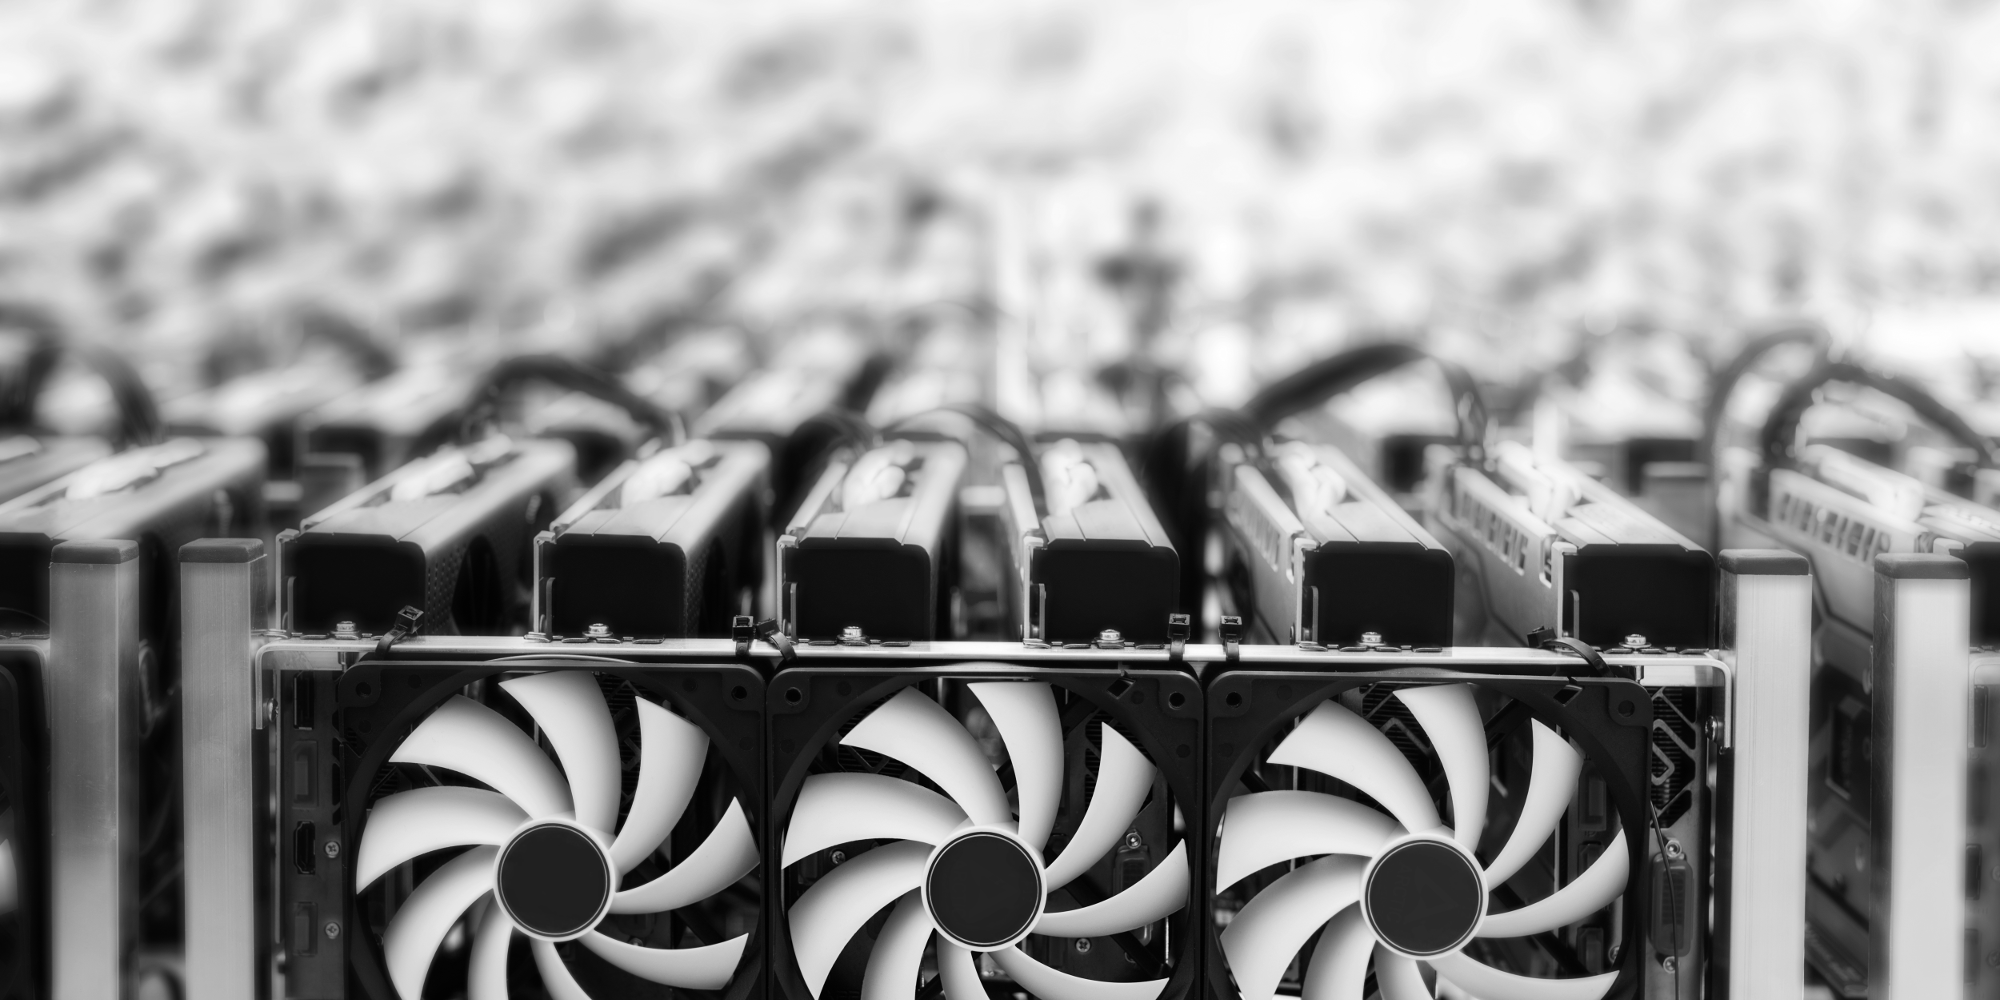
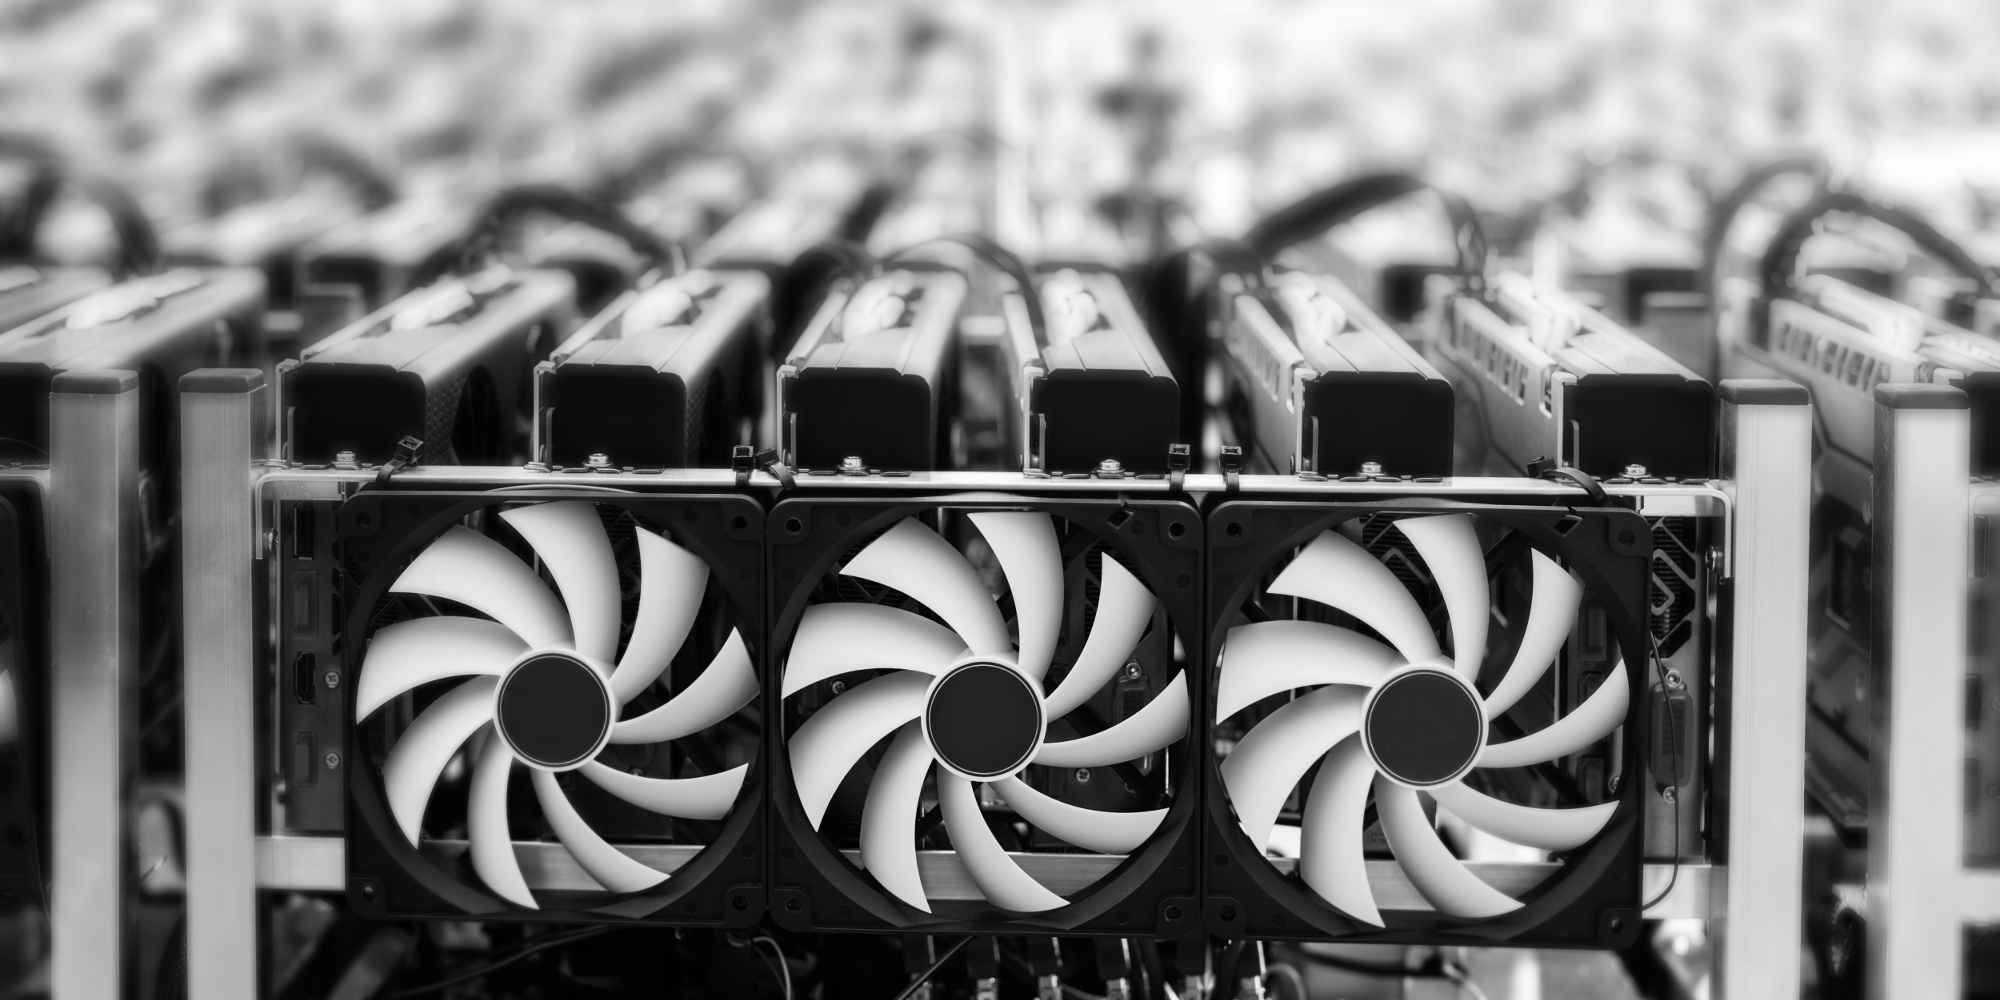
updated cropped image & description

diff --git a/public/index.html b/public/index.html
@@ -14,13 +14,13 @@
     <meta http-equiv="content-type" content="text/html; charset=utf-8">
     <meta http-equiv="X-UA-Compatible" content="IE=edge">
     <meta name="viewport" content="width=device-width, initial-scale=1.0">
-    <meta name="description" content="p2p GPU compute">
+    <meta name="description" content="A peer-to-peer GPU compute marketplace">
     <meta property="og:title" content="emrys">
     <meta property="og:site_name" content="emrys">
     <meta property="og:type" content="website">
     <meta property="og:url" content="https://www.emrys.io">
     <meta property="og:image" content="https://www.emrys.io/hero-gray-2000pt-cropped.png">
-    <meta property="og:description" content="p2p GPU compute">
+    <meta property="og:description" content="A peer-to-peer GPU compute marketplace">
     <meta name="twitter:card" content="summary_large_image">
     <meta name="twitter:site" content="@emrysio">
     <meta name="twitter:title" content="emrys">
@@ -29,7 +29,7 @@
     <meta name="twitter:url" content="https://www.emrys.io">
     <meta name="twitter:image" content="https://www.emrys.io/hero-gray-2000pt-cropped.png">
     <meta itemprop="name" content="emrys">
-    <meta itemprop="description" content="p2p GPU compute">
+    <meta itemprop="description" content="A peer-to-peer GPU compute marketplace">
     <meta itemprop="image" content="https://www.emrys.io/hero-gray-2000pt-cropped.png">
     <link href="https://fonts.googleapis.com/css?family=Oxygen" rel="stylesheet">
   </head>
